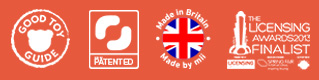
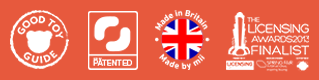
update career-5-2 image to fix build

diff --git a/miioon/app/views/career.html b/miioon/app/views/career.html
@@ -46,7 +46,7 @@
           <div class='career-5-p3 medium-font'>
             <h3>AWARD WINNING PRODUCTS</h3>
             From the Swoopercape® to the Ruckjack® all miioon products are designed with both kids and parents in mind. You will only EVER sell products you are 100% proud of.
-            <img src='images/career/career-5-2.jpg' alt='AWARD' />
+            <img src='images/career/career-5-2.png' alt='AWARD' />
           </div>
           <div class='career-5-p4 medium-font'>
             <h3>BEST KID'S BRANDS ON THE MARKET, PLUS SOME UNIQUE ONES TOO.</h3>
